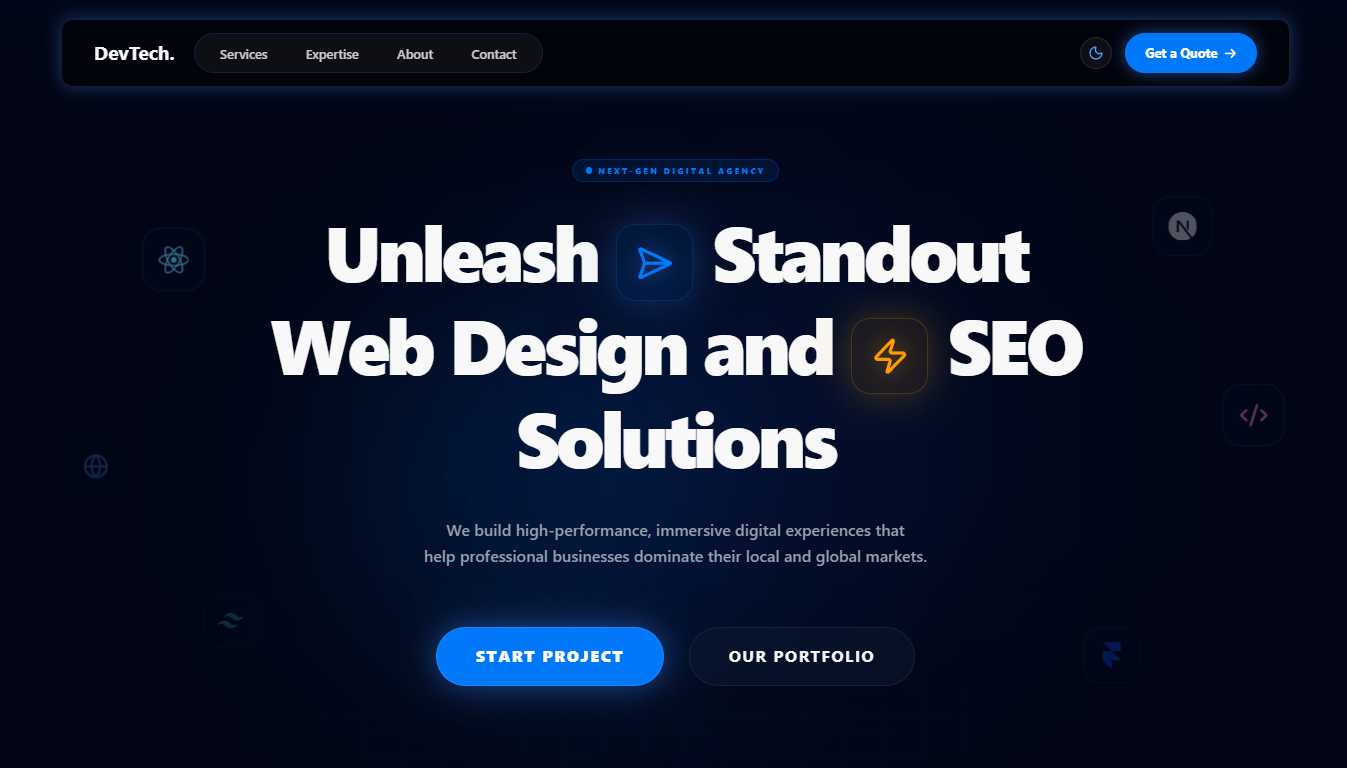
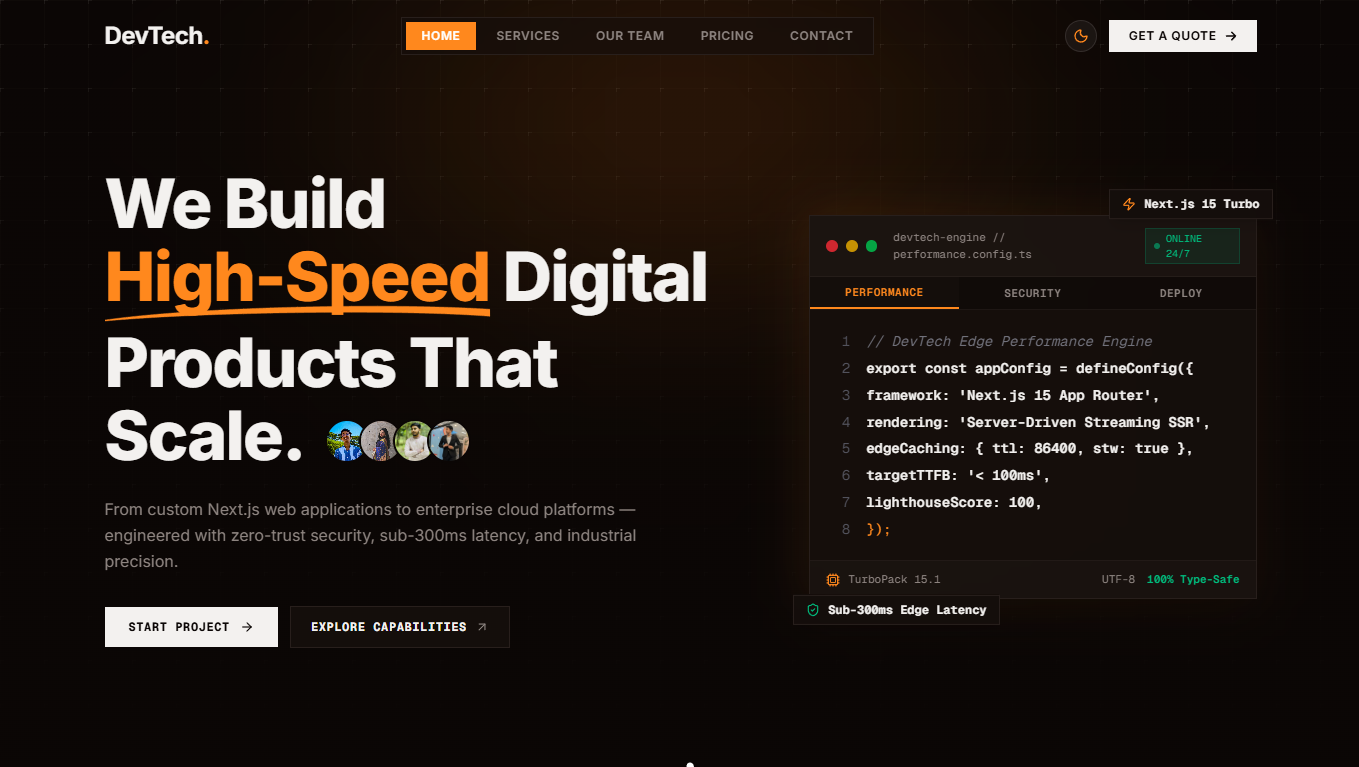
sm and md click animation added

diff --git a/components/sections/AboutMe.tsx b/components/sections/AboutMe.tsx
@@ -1,6 +1,6 @@
 "use client";
 
-import { useState } from "react";
+import { useState, useEffect } from "react";
 import Image from "next/image";
 import { BiSolidQuoteLeft } from "react-icons/bi";
 import { motion, AnimatePresence } from "framer-motion";
@@ -44,12 +44,38 @@ const AboutMe = () => {
     "profile",
   );
   const [copied, setCopied] = useState(false);
+  const [isImgActive, setIsImgActive] = useState(false);
+  const [isIdeActive, setIsIdeActive] = useState(false);
+
+  useEffect(() => {
+    const handleResize = () => {
+      if (window.innerWidth >= 1024) {
+        setIsImgActive(false);
+        setIsIdeActive(false);
+      }
+    };
+
+    window.addEventListener("resize", handleResize);
+    return () => window.removeEventListener("resize", handleResize);
+  }, []);
 
   const handleCopy = () => {
     const textToCopy = activeFile === "profile" ? profileCode : expertiseCode;
     navigator.clipboard.writeText(textToCopy);
     setCopied(true);
     setTimeout(() => setCopied(false), 2000);
+  };
+
+  const handleImgClick = () => {
+    if (typeof window !== "undefined" && window.innerWidth < 1024) {
+      setIsImgActive((prev) => !prev);
+    }
+  };
+
+  const handleIdeClick = () => {
+    if (typeof window !== "undefined" && window.innerWidth < 1024) {
+      setIsIdeActive((prev) => !prev);
+    }
   };
 
   return (
@@ -85,9 +111,18 @@ const AboutMe = () => {
             className="lg:col-span-4 flex flex-col h-full transform-gpu"
           >
             {/* Interactive Image Frame with Responsive Aspect Ratio & Offset Border */}
-            <div className="relative w-full aspect-[4/5] lg:aspect-auto lg:h-full group/img pr-2 pb-2 sm:pr-3.5 sm:pb-3.5">
+            <div
+              onClick={handleImgClick}
+              className="relative w-full aspect-[4/5] lg:aspect-auto lg:h-full group/img pr-2 pb-2 sm:pr-3.5 sm:pb-3.5 cursor-pointer select-none"
+            >
               {/* Offset Decorative Border Frame (Closer on Small Devices to Prevent Margin Overflow) */}
-              <div className="absolute inset-0 translate-x-2 translate-y-3 sm:translate-x-3.5 sm:translate-y-3.5 rounded-2xl border-2 border-primary/60 group-hover/img:translate-x-0.5 group-hover/img:translate-y-0.5 sm:group-hover/img:translate-x-1 sm:group-hover/img:translate-y-1 group-hover/img:border-primary shadow-[0_0_20px_rgba(59,130,246,0.35)] transition-transform duration-300 ease-out pointer-events-none z-0 will-change-transform" />
+              <div
+                className={`absolute inset-0 translate-x-2 translate-y-3 sm:translate-x-3.5 sm:translate-y-3.5 rounded-2xl border-2 shadow-[0_0_20px_rgba(59,130,246,0.35)] transition-all duration-300 ease-out pointer-events-none z-0 will-change-transform ${
+                  isImgActive
+                    ? "translate-x-0.5 translate-y-0.5 sm:translate-x-1 sm:translate-y-1 border-primary"
+                    : "border-primary/60 group-hover/img:translate-x-0.5 group-hover/img:translate-y-0.5 sm:group-hover/img:translate-x-1 sm:group-hover/img:translate-y-1 group-hover/img:border-primary"
+                }`}
+              />
 
               {/* Main Image Container */}
               <div className="relative w-full h-full rounded-2xl overflow-hidden z-10 border border-white/10 shadow-2xl">
@@ -97,7 +132,9 @@ const AboutMe = () => {
                   alt="Tanvir Mahmud Fuad"
                   fill
                   sizes="(max-width: 768px) 100vw, (max-width: 1200px) 40vw, 35vw"
-                  className="object-cover object-top transition-transform duration-500 group-hover/img:scale-105 will-change-transform"
+                  className={`object-cover object-top transition-transform duration-500 will-change-transform ${
+                    isImgActive ? "scale-105" : "group-hover/img:scale-105"
+                  }`}
                   priority
                 />
 
@@ -122,7 +159,14 @@ const AboutMe = () => {
             transition={{ duration: 0.4, ease: "easeOut" }}
             className="lg:col-span-8 flex flex-col h-full transform-gpu"
           >
-            <div className="relative group p-[1px] rounded-3xl bg-gradient-to-b from-white/20 via-primary/30 to-purple-500/20 shadow-[0_0_30px_rgba(30,144,255,0.12)] transition-shadow duration-300 hover:shadow-[0_0_50px_rgba(30,144,255,0.2)] h-full">
+            <div
+              onClick={handleIdeClick}
+              className={`relative group p-[1px] rounded-3xl bg-gradient-to-b from-white/20 via-primary/30 to-purple-500/20 shadow-[0_0_30px_rgba(30,144,255,0.12)] transition-shadow duration-300 h-full cursor-pointer ${
+                isIdeActive
+                  ? "shadow-[0_0_50px_rgba(30,144,255,0.2)]"
+                  : "hover:shadow-[0_0_50px_rgba(30,144,255,0.2)]"
+              }`}
+            >
               <div className="relative w-full h-full rounded-[23px] bg-[#12131a]/95 backdrop-blur-md overflow-hidden font-geistMono flex flex-col justify-between">
                 <div>
                   {/* IDE Top Header Bar */}

diff --git a/components/sections/Skills.tsx b/components/sections/Skills.tsx
@@ -3,7 +3,7 @@ import SectionTitle from "../shared/SectionTitle";
 import { motion } from "framer-motion";
 import Image from "next/image";
 import Tabs from "../shared/SkillsTab";
-import { useState } from "react";
+import { useState, useEffect } from "react";
 
 interface Logo {
   logo: string;
@@ -12,7 +12,26 @@ interface Logo {
 }
 
 const Skills = () => {
-  const [activeTab, setActiveTab] = useState<string>("All");
+  const [activeTab, setActiveTab] = useState("All");
+  const [activeLogo, setActiveLogo] = useState<string | null>(null);
+
+  // Function Call when resize window
+  useEffect(() => {
+    const handleResize = () => {
+      if (window.innerWidth >= 1024) {
+        setActiveLogo(null);
+      }
+    };
+
+    window.addEventListener("resize", handleResize);
+    return () => window.removeEventListener("resize", handleResize);
+  }, []);
+
+  const handleLogoClick = (name: string) => {
+    if (typeof window !== "undefined" && window.innerWidth < 1024) {
+      setActiveLogo((prev) => (prev === name ? null : name));
+    }
+  };
 
   const logos: Logo[] = [
     {
@@ -172,10 +191,16 @@ const Skills = () => {
           {filteredLogos.map((logo) => (
             <div
               key={`${activeTab}-${logo.name}`}
-              className={`relative group flex flex-col items-center justify-center w-35 md:w-35 py-6 rounded-2xl border border-white/5 bg-slate-900/40 backdrop-blur-md transition-all duration-500 ease-outhover:border-primary/50 hover:bg-primary/5 hover:-translate-y-2 shadow-[0_8px_30px_rgb(0,0,0,0.12)]hover:shadow-[0_20px_50px_rgba(var(--primary-rgb),0.2)] overflow-hidden animate-in slide-in-from-bottom-5 fade-in`}
+              className={`relative group flex flex-col items-center justify-center w-35 md:w-35 py-6 rounded-2xl border border-white/5 bg-slate-900/40 backdrop-blur-md transition-all duration-500 ease-out hover:bg-primary/5 hover:-translate-y-2 shadow-[0_8px_30px_rgb(0,0,0,0.12)] hover:shadow-[0_20px_50px_rgba(var(--primary-rgb),0.2)] overflow-hidden animate-in slide-in-from-bottom-5 fade-in ${
+                activeLogo === logo.name &&
+                "bg-primary/5 -translate-y-2 shadow-[0_20px_50px_rgba(var(--primary-rgb),0.2)]"
+              }`}
+              onClick={() => handleLogoClick(logo.name)}
             >
               {/* Background Glow on Hover */}
-              <div className="absolute -inset-px bg-linear-to-b from-primary/10 to-transparent opacity-0 group-hover:opacity-100 transition-opacity duration-500 rounded-2xl" />
+              <div
+                className={`absolute -inset-px bg-linear-to-b from-primary/10 to-transparent opacity-0 group-hover:opacity-100 transition-opacity duration-500 rounded-2xl ${activeLogo === logo.name && "opacity-100"}`}
+              />
 
               {/* Logo Container */}
               <figure className="relative w-12 h-12 md:w-10 md:h-10 z-10">
@@ -193,7 +218,9 @@ const Skills = () => {
               </p>
 
               {/* Bottom Accent Line */}
-              <div className="absolute bottom-0 left-1/2 -translate-x-1/2 w-0 h-1 bg-primary rounded-full group-hover:w-full transition-all duration-500" />
+              <div
+                className={`absolute bottom-0 left-1/2 -translate-x-1/2 w-0 h-1 bg-primary rounded-full group-hover:w-full transition-all duration-500 ${activeLogo === logo.name && "w-full"}`}
+              />
             </div>
           ))}
         </div>

diff --git a/components/sections/Projects.tsx b/components/sections/Projects.tsx
@@ -1,5 +1,5 @@
 "use client";
-import { useState } from "react";
+import { useEffect, useState } from "react";
 import SectionTitle from "../shared/SectionTitle";
 import { projectCards } from "../../data/projectData";
 import { motion } from "framer-motion";
@@ -11,6 +11,24 @@ const Projects = () => {
   const [expandedTags, setExpandedTags] = useState<{ [key: number]: boolean }>(
     {},
   );
+  const [isDivActive, setIsDivActive] = useState<null | number>(null);
+
+  useEffect(() => {
+    const handleResize = () => {
+      if (window.innerWidth >= 1024) {
+        setIsDivActive(null);
+      }
+    };
+
+    window.addEventListener("resize", handleResize);
+    return () => window.removeEventListener("resize", handleResize);
+  }, []);
+
+  const handleCardClick = (index: number) => {
+    if (window.innerWidth < 1024) {
+      setIsDivActive((prev) => (prev === index ? null : index));
+    }
+  };
 
   const toggleExpand = (id: number) => {
     setExpanded((prev) => ({ ...prev, [id]: !prev[id] }));
@@ -39,20 +57,25 @@ const Projects = () => {
           className="grid grid-cols-1 md:grid-cols-2 lg:grid-cols-3 gap-7 px-6
         md:px-10 lg:px-16"
         >
-          {projectCards.map((card) => {
+          {projectCards.map((card, idx) => {
             const isTagsExpanded = expandedTags[card.id];
             const visibleTags = isTagsExpanded
               ? card.tags
               : card.tags.slice(0, 4);
             const remainingTagsCount = card.tags.length - 4;
-
+            const activeDiv = isDivActive === idx;
             return (
               <div
                 key={card.id}
-                className="border border-px border-paragraph h-fit rounded-3xl flex flex-col gap-2 hover:shadow-xl hover:shadow-primary transition-all duration-400 overflow-hidden group"
+                className={`border border-px border-paragraph h-fit rounded-3xl flex flex-col gap-2 hover:shadow-xl hover:shadow-primary transition-all duration-400 overflow-hidden group ${
+                  activeDiv && "shadow-xl shadow-primary"
+                }`}
+                onClick={() => handleCardClick(idx)}
               >
                 {/* Image */}
-                <div className="relative group-hover:scale-107 duration-300">
+                <div
+                  className={`relative group-hover:scale-107 duration-300 ${activeDiv && "scale-107"}`}
+                >
                   <img className="pb-2 rounded-t-3xl" src={card.image} alt="" />
                   {card?.processing && (
                     <p className="absolute bottom-2 bg-green-800 inset-x-px pl-2 pt-1 text-sm text-white font-medium text-center">

diff --git a/components/sections/Education.tsx b/components/sections/Education.tsx
@@ -127,11 +127,6 @@ const Education = () => {
                         Passing Year: {activeEntry.passingYear}
                       </span>
                     )}
-
-                    <span className="text-xs font-mono text-slate-500">
-                      Milestone 0{selectedIndex + 1} of 0
-                      {educationEntries.length}
-                    </span>
                   </div>
 
                   {/* Degree Name */}
